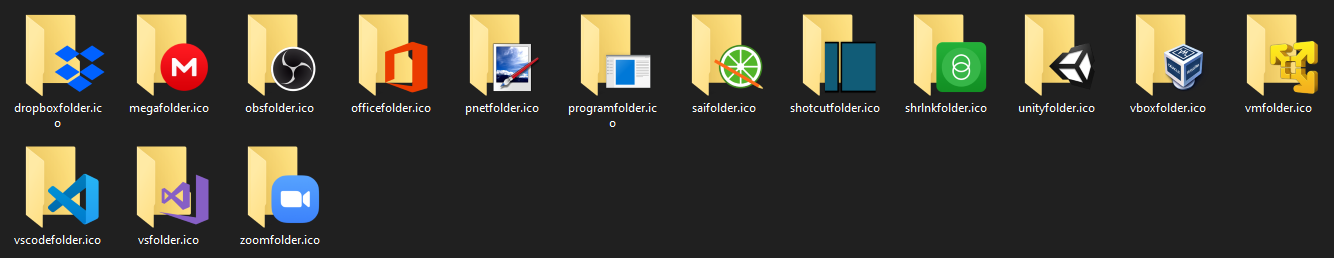
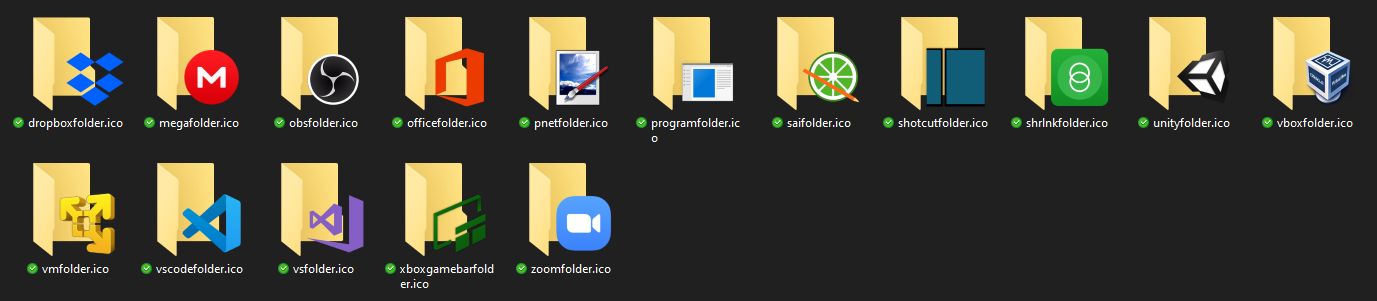
Update Previews

diff --git a/icons/README.md b/icons/README.md
@@ -32,6 +32,7 @@
   * `vmfolder` - VMware
   * `vscodefolder` - Visual Studio Code
   * `vsfolder` - Visual Studio
+  * `xboxgambarfolder` - Xbox Game Bar
   * `zoomfolder` - Zoom
 
 ---
@@ -49,3 +50,6 @@
   * `ubuntufolder` - Ubuntu folder
   * `userfolder` - User personal folder
   * `winfolder` - Windows folder
+  * **vscode_files**:
+
+![Preview image](./system/vscode_files/preview.png)
